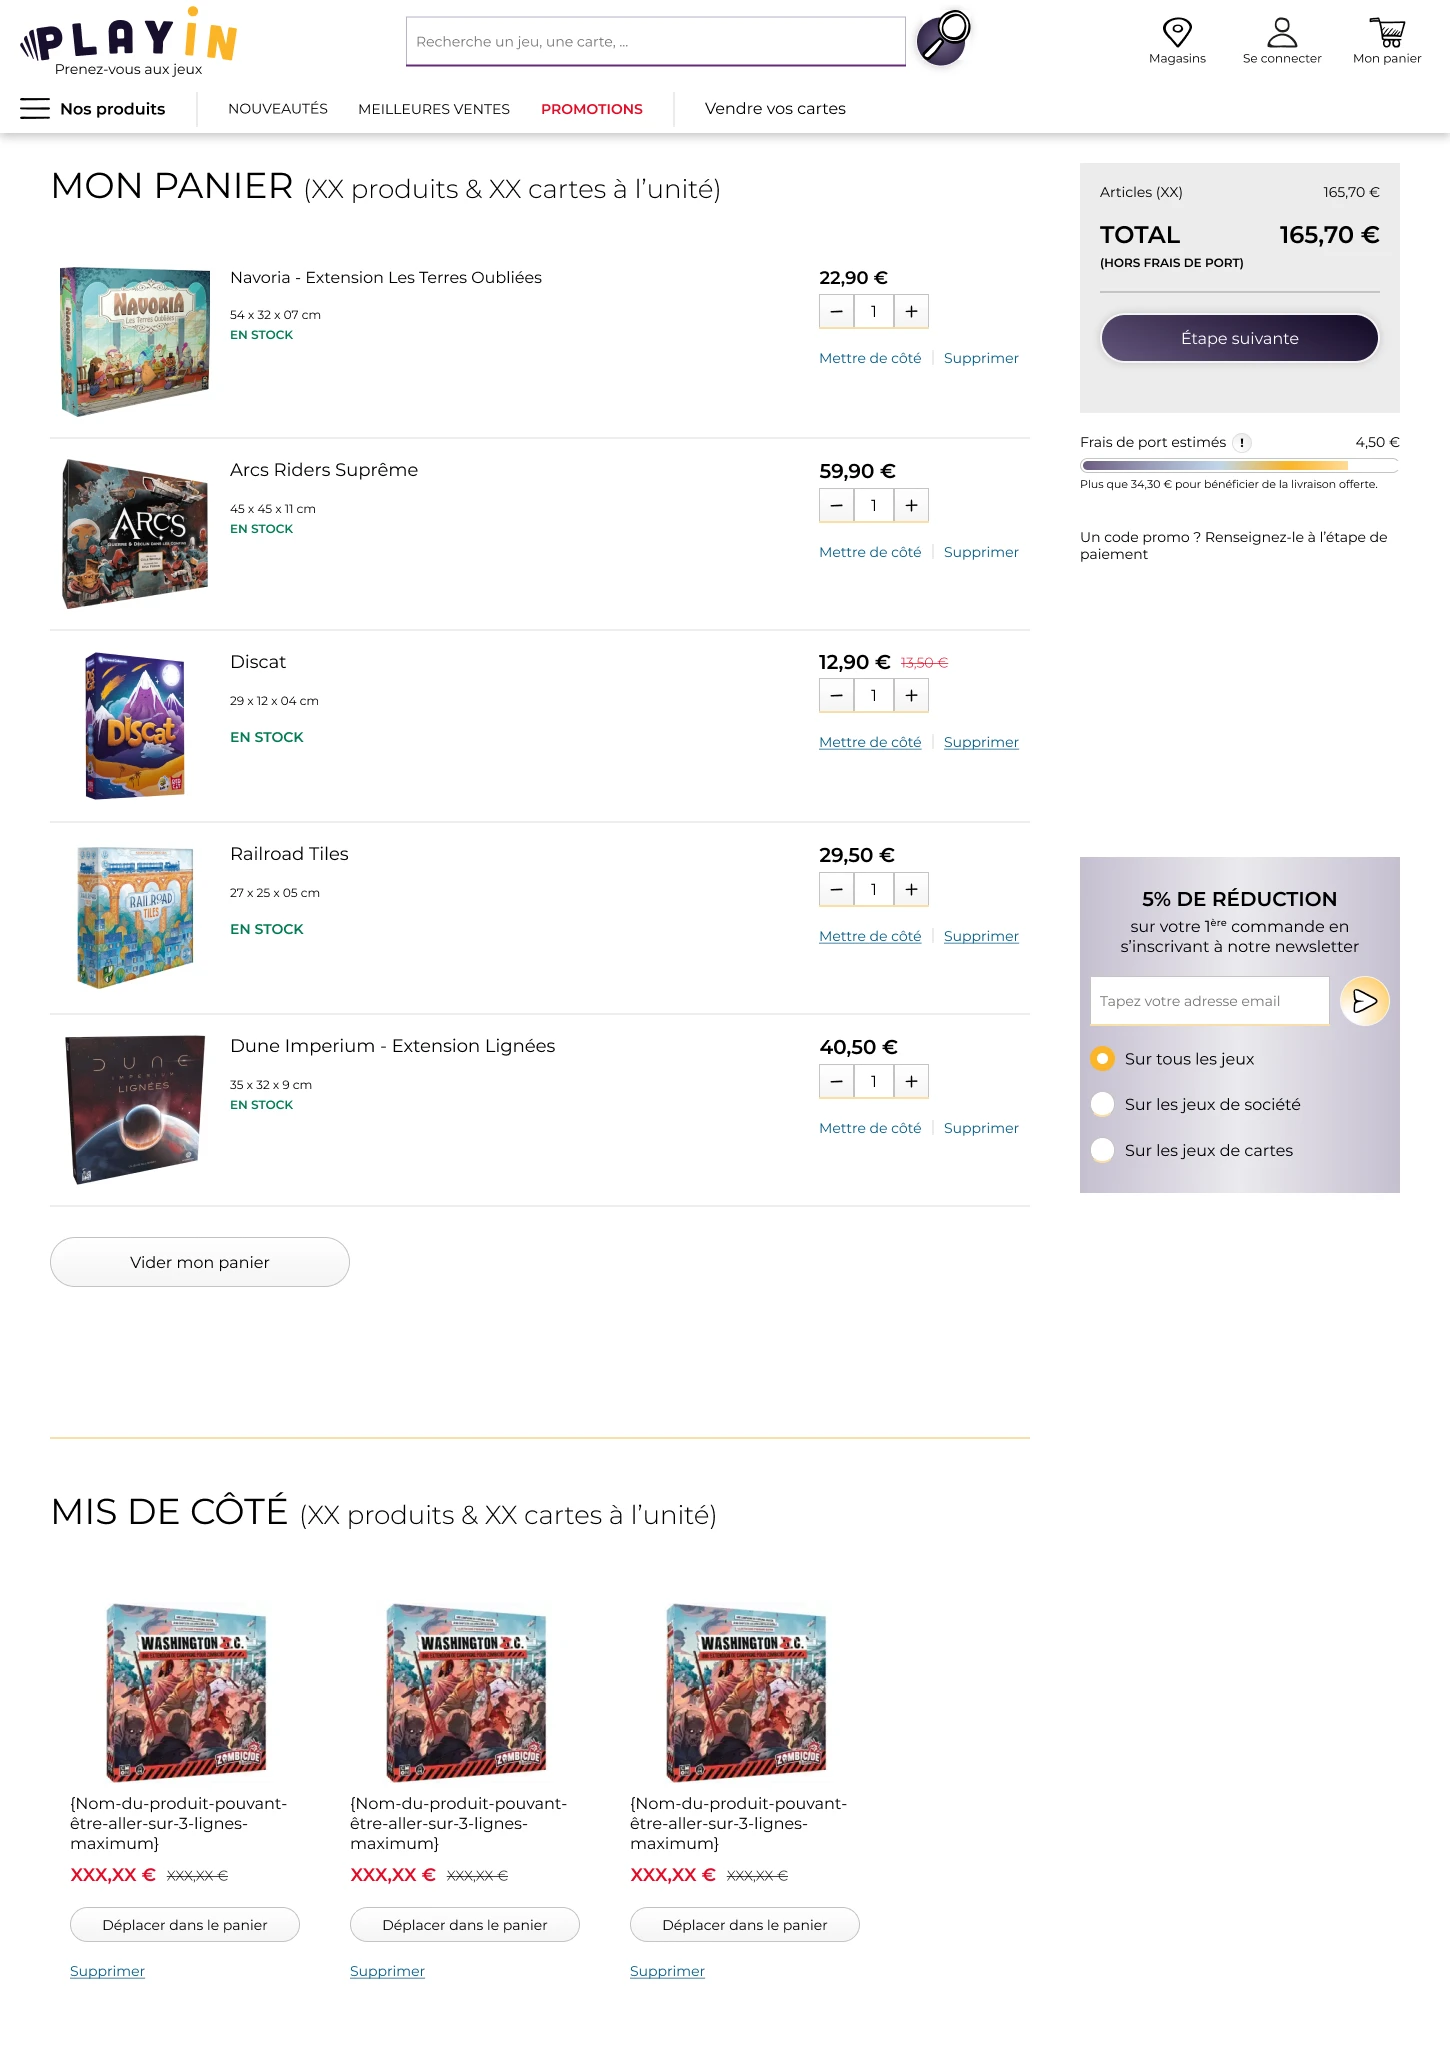
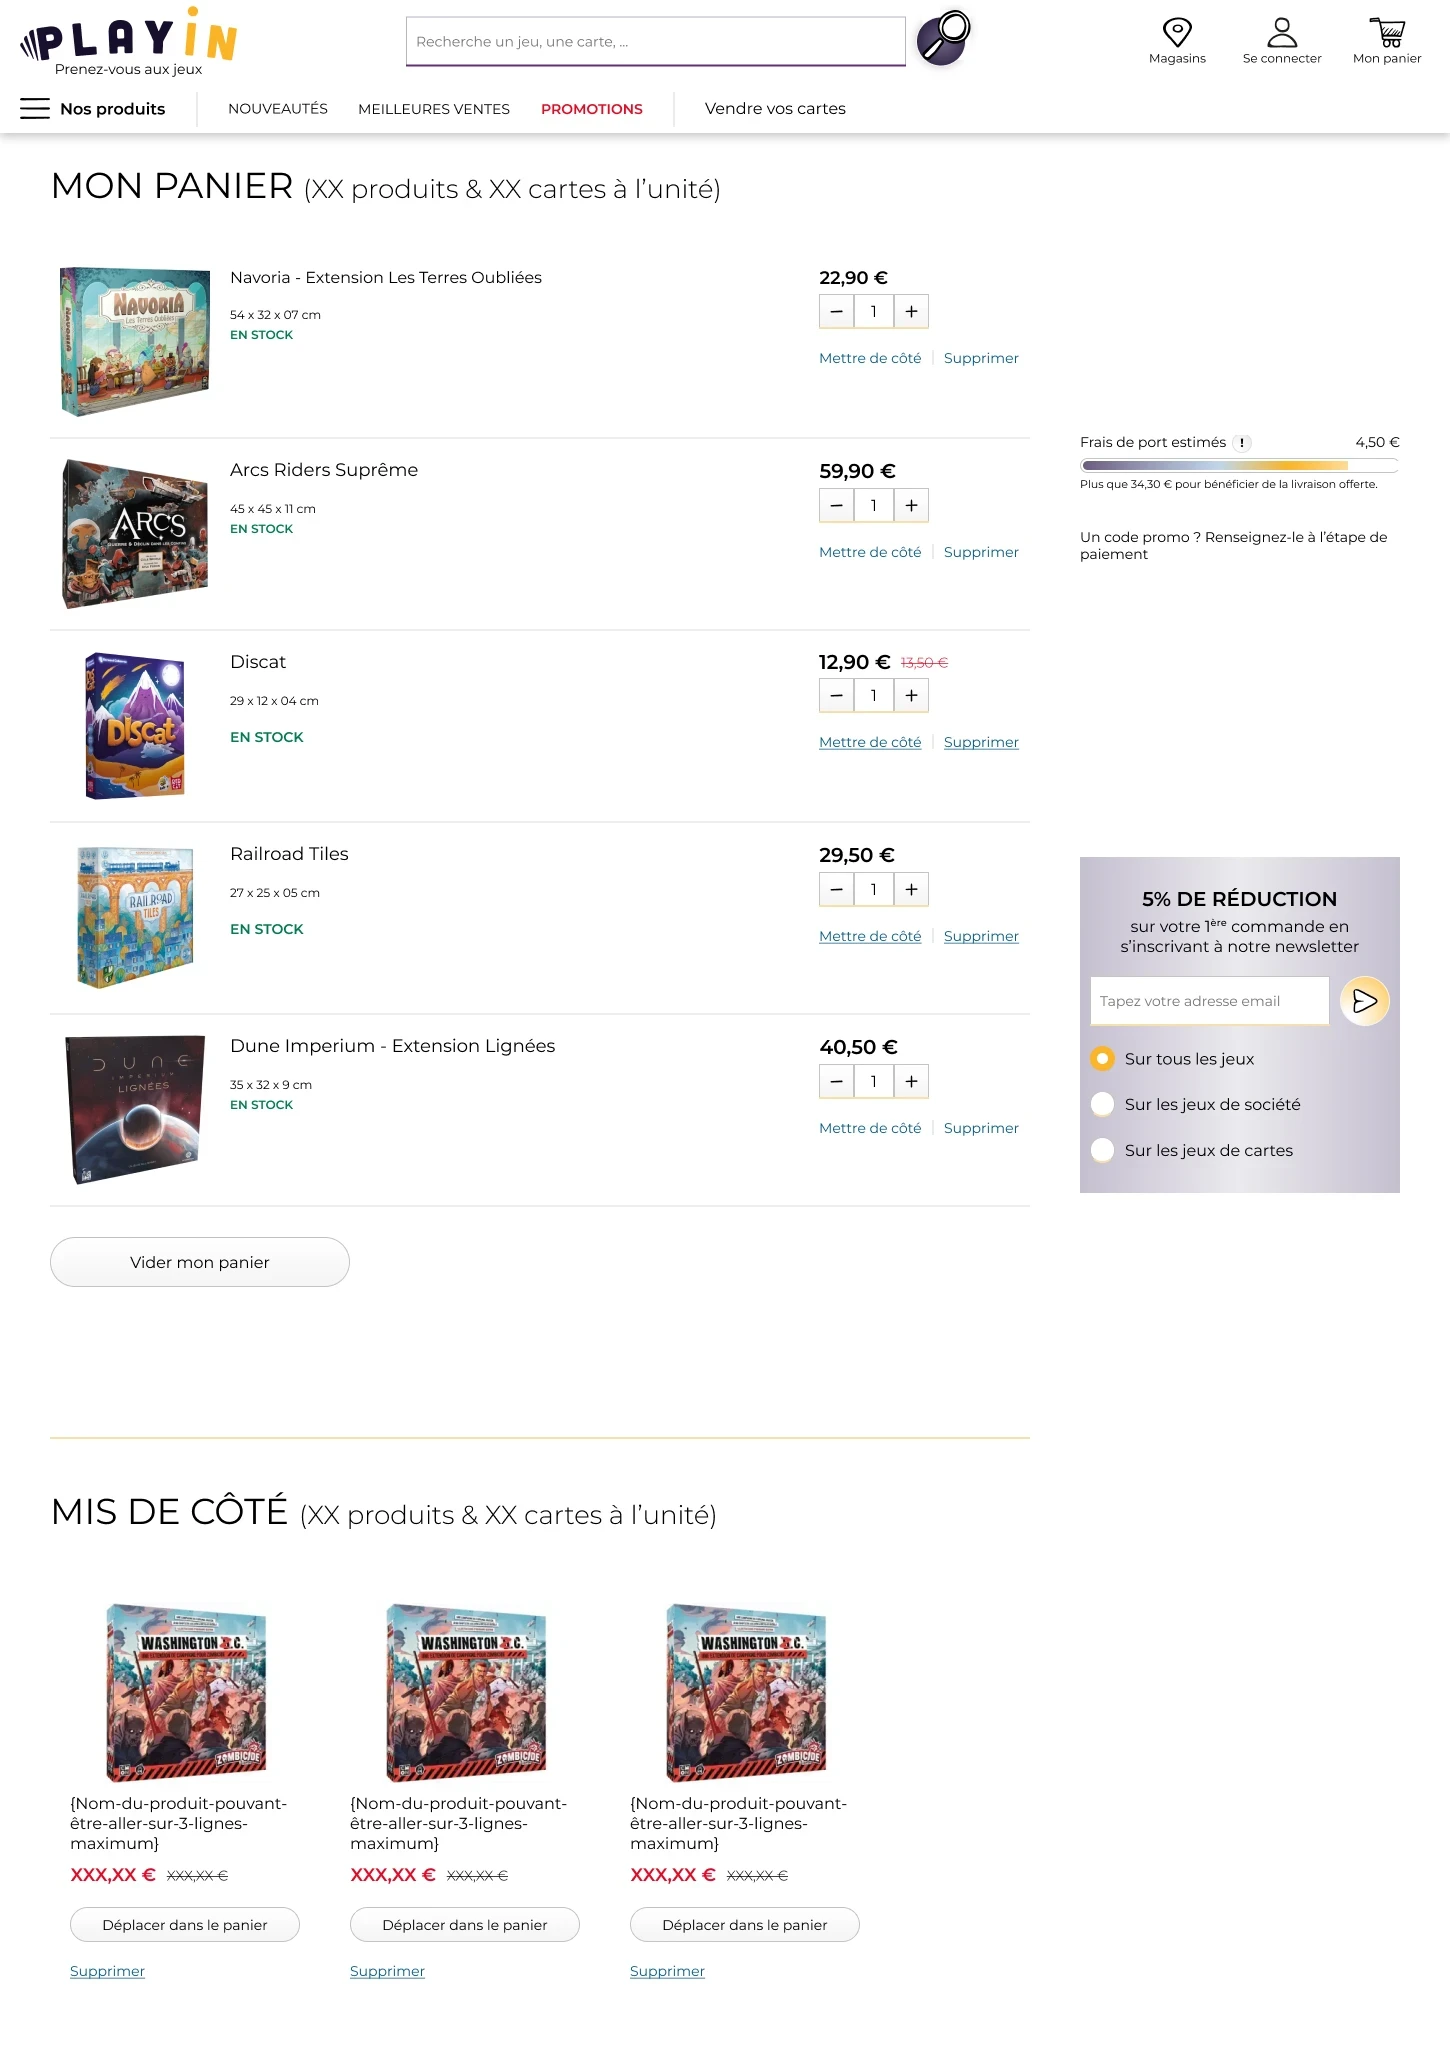
E-commerce : récapitulatif fixe sur le panier final, desktop et mobile
Claude-Session: https://claude.ai/code/session_01THwdntjNiSuDEHoKbgxniL

Changed region(s): [[0.7448, 0.0931, 0.9621, 0.1861]]

diff --git a/projets/refonte-site-e-commerce-play-in/index.html b/projets/refonte-site-e-commerce-play-in/index.html
@@ -224,7 +224,7 @@
           </figure>
           <figure class="st-wf st-wf--full">
             <figcaption><span class="st-wf__num">03</span><strong>Panier</strong>Récapitulatif toujours visible et frais de port estimés</figcaption>
-            <div class="st-wf__pair"><div class="st-wf__col"><span class="st-wf__label">Desktop</span><div class="st-wf__desk st-scroll" tabindex="0" role="region" aria-label="Panier desktop, défilable"><img src="../../assets/img/play-in-ecommerce/ui/panier-d.webp" alt="Panier desktop : articles, quantités, récapitulatif et produits mis de côté" width="1450" height="2063" loading="lazy"></div></div><div class="st-wf__col"><span class="st-wf__label">Mobile</span><div class="st-wf__mob st-scroll" tabindex="0" role="region" aria-label="Panier mobile, défilable"><img src="../../assets/img/play-in-ecommerce/ui/panier-m.webp" alt="Panier en version mobile" width="500" height="2063" loading="lazy"></div></div></div>
+            <div class="st-wf__pair"><div class="st-wf__col"><span class="st-wf__label">Desktop</span><div class="st-wf__desk st-scroll st-sticky-host" tabindex="0" role="region" aria-label="Panier desktop, défilable"><div class="st-stick-wrap"><div class="st-stick" aria-hidden="true"><img src="../../assets/img/play-in-ecommerce/ui/panier-d-recap.webp" alt="" width="320" height="272" style="margin-left:74.483%;margin-top:11.241%;width:22.069%;top:3.448cqw"></div><img src="../../assets/img/play-in-ecommerce/ui/panier-d.webp" alt="Panier desktop : articles, quantités, récapitulatif et produits mis de côté" width="1450" height="2063" loading="lazy"></div></div></div><div class="st-wf__col"><span class="st-wf__label">Mobile</span><div class="st-wf__mob st-scroll" tabindex="0" role="region" aria-label="Panier mobile, défilable"><img src="../../assets/img/play-in-ecommerce/ui/panier-m.webp" alt="Panier en version mobile" width="500" height="1865" loading="lazy"><img class="st-stick-bottom" src="../../assets/img/play-in-ecommerce/ui/panier-m-recap.webp" alt="" aria-hidden="true" width="500" height="198"></div></div></div>
           </figure>
           <figure class="st-wf">
             <figcaption><span class="st-wf__num">04</span><strong>Menu d’une gamme</strong>Cartes, produits et guides de jeu regroupés par univers</figcaption>
